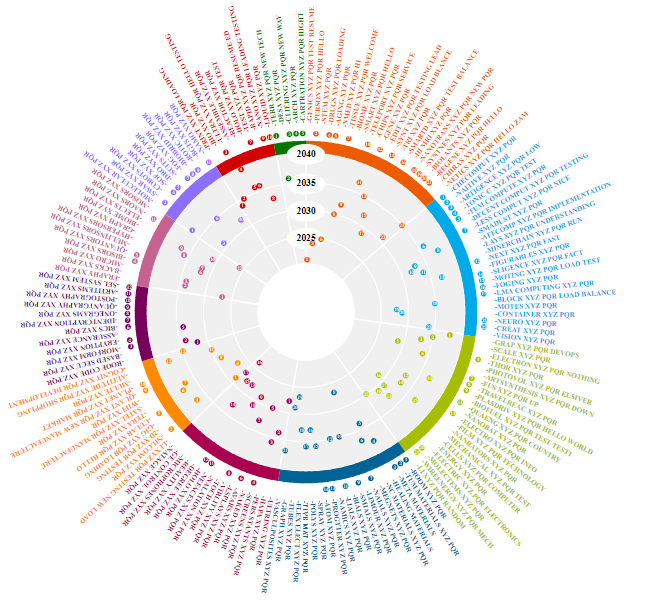
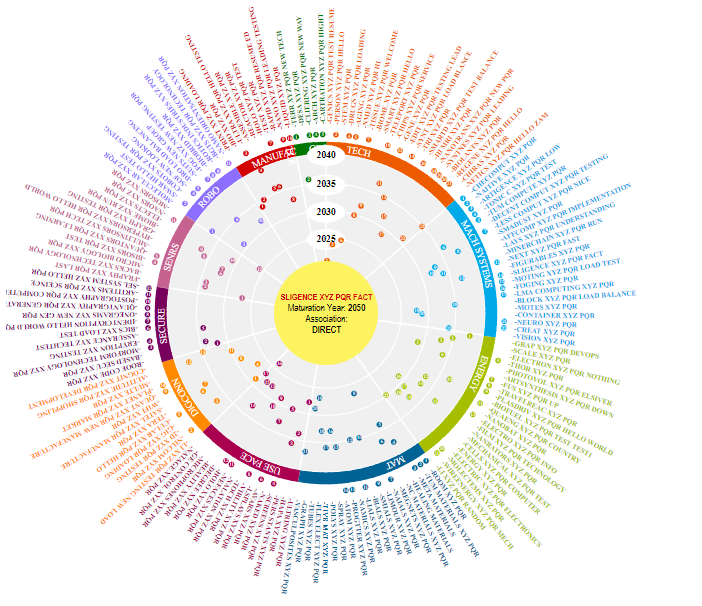
Corrected image and data

diff --git a/src/app/app.component.ts b/src/app/app.component.ts
@@ -889,42 +889,42 @@ export class AppComponent implements OnInit {
             },
             {
               "id": 126,
-              "name": "Swar xyz pqr",
+              "name": "Swar hello test",
               "maturation": "2050",
               "association": "DIRECT",
               "impact": 3
             },
             {
               "id": 119,
-              "name": "Cobots xyz pqr",
+              "name": "Cobots xyz pqr testing",
               "maturation": "2031",
               "association": "DIRECT",
               "impact": 2
             },
             {
               "id": 125,
-              "name": "Sof xyz pqr",
+              "name": "Sof New looking",
               "maturation": "2050",
               "association": "DIRECT",
               "impact": 3
             },
             {
               "id": 120,
-              "name": "Dro xyz pqr",
+              "name": "Dro load balancing",
               "maturation": "2050",
               "association": "DIRECT",
               "impact": 3
             },
             {
               "id": 121,
-              "name": "Suits xyz pqr",
+              "name": "Suits new group",
               "maturation": "2035",
               "association": "DIRECT",
               "impact": 2
             },
             {
               "id": 127,
-              "name": "Fog xyz pqr",
+              "name": "Fog xyz new testing pqr",
               "maturation": "2050",
               "association": "DIRECT",
               "impact": 3
@@ -938,21 +938,21 @@ export class AppComponent implements OnInit {
             },
             {
               "id": 124,
-              "name": "Rotic xyz pqr",
+              "name": "Rotics industries xyz pqr",
               "maturation": "2050",
               "association": "DIRECT",
               "impact": 3
             },
             {
               "id": 118,
-              "name": "Bgts xyz pqr",
+              "name": "Bgts xyz pqr technology",
               "maturation": "2032",
               "association": "DIRECT",
               "impact": 3
             },
             {
               "id": 123,
-              "name": "Namo xyz pqr",
+              "name": "Namo orientsation xyz pqr",
               "maturation": "2050",
               "association": "DIRECT",
               "impact": 3
@@ -979,70 +979,70 @@ export class AppComponent implements OnInit {
             },
             {
               "id": 135,
-              "name": "Morform xyz pqr",
+              "name": "Morform technology xyz pqr",
               "maturation": "2050",
               "association": "DIRECT",
               "impact": 3
             },
             {
               "id": 131,
-              "name": "Eryption xyz pqr",
+              "name": "Eryption xyz testing",
               "maturation": "2050",
               "association": "DIRECT",
               "impact": 2
             },
             {
               "id": 133,
-              "name": "Assurance xyz pqr",
+              "name": "Assurance xyz techtest",
               "maturation": "2034",
               "association": "DIRECT",
               "impact": 3
             },
             {
               "id": 130,
-              "name": "Bics xyz pqr",
+              "name": "Bics xyz load test",
               "maturation": "2050",
               "association": "DIRECT",
               "impact": 3
             },
             {
               "id": 134,
-              "name": "Identcryption xyz pqr",
+              "name": "Identcryption hello world pqr",
               "maturation": "2050",
               "association": "DIRECT",
               "impact": 2
             },
             {
               "id": 136,
-              "name": "Onegrams xyz pqr",
+              "name": "Onegrams xyz new gen pqr",
               "maturation": "2050",
               "association": "DIRECT",
               "impact": 3
             },
             {
               "id": 138,
-              "name": "Quantgraphy xyz pqr",
+              "name": "Quantgraphy xyz pqr generation",
               "maturation": "2050",
               "association": "DIRECT",
               "impact": 3
             },
             {
               "id": 137,
-              "name": "Postography xyz pqr",
+              "name": "Postography xyz pqr computer",
               "maturation": "2050",
               "association": "DIRECT",
               "impact": 3
             },
             {
               "id": 128,
-              "name": "Artitems xyz pqr",
+              "name": "Artitems xyz pqr sceince",
               "maturation": "2050",
               "association": "DIRECT",
               "impact": 3
             },
             {
               "id": 139,
-              "name": "Sel System xyz pqr",
+              "name": "Sel System xyz hello pqr",
               "maturation": "2050",
               "association": "DIRECT",
               "impact": 3
@@ -1055,63 +1055,63 @@ export class AppComponent implements OnInit {
           "children": [
             {
               "id": 143,
-              "name": "Fraphy xyz pqr",
+              "name": "Fraphy xyz pqr last",
               "maturation": "2027",
               "association": "DIRECT",
               "impact": 3
             },
             {
               "id": 140,
-              "name": "Backs xyz pqr",
+              "name": "Backs xyz technology pqr",
               "maturation": "2034",
               "association": "DIRECT",
               "impact": 2
             },
             {
               "id": 147,
-              "name": "Micro xyz pqr",
+              "name": "Micro biology xyz pqr",
               "maturation": "2034",
               "association": "DIRECT",
               "impact": 3
             },
             {
               "id": 142,
-              "name": "Bisors xyz pqr",
+              "name": "Bisors xyz pqr test",
               "maturation": "2050",
               "association": "DIRECT",
               "impact": 3
             },
             {
               "id": 151,
-              "name": "Quantors xyz pqr",
+              "name": "Quantors xyz pqr learning",
               "maturation": "2050",
               "association": "DIRECT",
               "impact": 3
             },
             {
               "id": 149,
-              "name": "Multinsors xyz pqr",
+              "name": "Multinsors xyz tech pqr",
               "maturation": "2032",
               "association": "DIRECT",
               "impact": 3
             },
             {
               "id": 146,
-              "name": "Hypersors xyz pqr",
+              "name": "Hypersors xyz pqr hello world",
               "maturation": "2032",
               "association": "DIRECT",
               "impact": 3
             },
             {
               "id": 145,
-              "name": "Graph xyz pqr",
+              "name": "Graph xyz pqr testing",
               "maturation": "2036",
               "association": "DIRECT",
               "impact": 2
             },
             {
               "id": 141,
-              "name": "Biome xyz pqr",
+              "name": "Biome xyz run pqr",
               "maturation": "2037",
               "association": "DIRECT",
               "impact": 3
